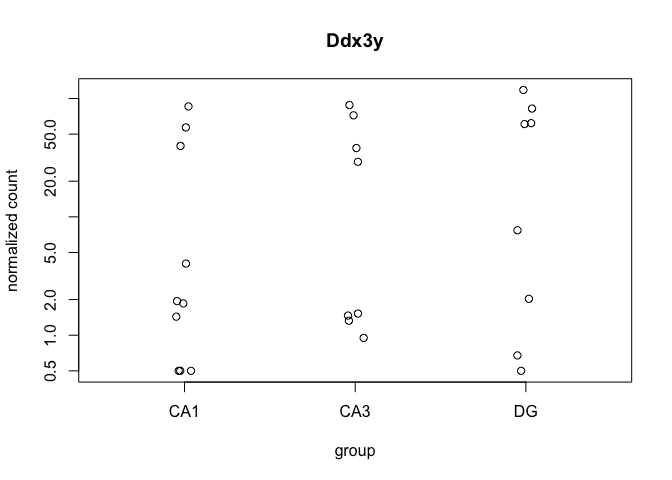
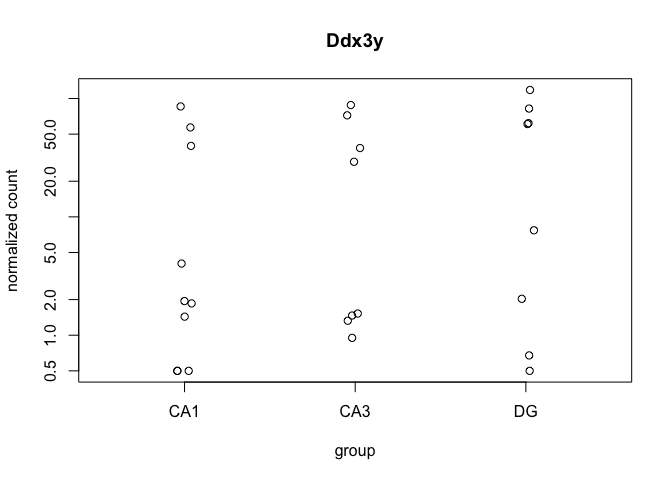
new pca

diff --git a/bin/DissociationTest.md b/bin/DissociationTest.md
@@ -3,54 +3,54 @@ This R Markdown document will walk through the analysis of hippocampal tissue pr
 #### Differential Gene Expression Plots
 
     ## class: DESeqDataSet 
-    ## dim: 16519 8 
+    ## dim: 17695 26 
     ## metadata(1): version
     ## assays(1): counts
-    ## rownames(16519): 0610007P14Rik 0610009B22Rik ... Zzef1 Zzz3
+    ## rownames(17695): 0610007P14Rik 0610009B22Rik ... Zzef1 Zzz3
     ## rowData names(0):
-    ## colnames(8): 100-DG-2 100-DG-3 ... 147C-DG-3 147D-DG-1
+    ## colnames(26): 100-CA1-1 100-CA1-2 ... 147D-CA3-1 147D-DG-1
     ## colData names(11): RNAseqID Method ... Punch.Collector jobnumber
 
     ## class: DESeqDataSet 
-    ## dim: 16519 8 
+    ## dim: 17695 26 
     ## metadata(1): version
-    ## assays(3): counts mu cooks
-    ## rownames(16519): 0610007P14Rik 0610009B22Rik ... Zzef1 Zzz3
-    ## rowData names(37): baseMean baseVar ... deviance maxCooks
-    ## colnames(8): 100-DG-2 100-DG-3 ... 147C-DG-3 147D-DG-1
-    ## colData names(12): RNAseqID Method ... jobnumber sizeFactor
+    ## assays(5): counts mu cooks replaceCounts replaceCooks
+    ## rownames(17695): 0610007P14Rik 0610009B22Rik ... Zzef1 Zzz3
+    ## rowData names(38): baseMean baseVar ... maxCooks replace
+    ## colnames(26): 100-CA1-1 100-CA1-2 ... 147D-CA3-1 147D-DG-1
+    ## colData names(13): RNAseqID Method ... sizeFactor replaceable
 
     ## 
-    ## out of 16519 with nonzero total read count
+    ## out of 17690 with nonzero total read count
     ## adjusted p-value < 0.1
-    ## LFC > 0 (up)     : 14, 0.085% 
-    ## LFC < 0 (down)   : 92, 0.56% 
-    ## outliers [1]     : 0, 0% 
+    ## LFC > 0 (up)     : 25, 0.14% 
+    ## LFC < 0 (down)   : 143, 0.81% 
+    ## outliers [1]     : 327, 1.8% 
     ## low counts [2]   : 0, 0% 
     ## (mean count < 0)
     ## [1] see 'cooksCutoff' argument of ?results
     ## [2] see 'independentFiltering' argument of ?results
 
     ## 
-    ## out of 16519 with nonzero total read count
+    ## out of 17690 with nonzero total read count
     ## adjusted p-value < 0.05
-    ## LFC > 0 (up)     : 13, 0.079% 
-    ## LFC < 0 (down)   : 88, 0.53% 
-    ## outliers [1]     : 0, 0% 
-    ## low counts [2]   : 8007, 48% 
-    ## (mean count < 15)
+    ## LFC > 0 (up)     : 16, 0.09% 
+    ## LFC < 0 (down)   : 120, 0.68% 
+    ## outliers [1]     : 327, 1.8% 
+    ## low counts [2]   : 6588, 37% 
+    ## (mean count < 7)
     ## [1] see 'cooksCutoff' argument of ?results
     ## [2] see 'independentFiltering' argument of ?results
 
-![](../figures/DG_hdccy/DifferentialGeneExpressionAnalysis-1.png)
+![](../figures/allregions_allgroups/DifferentialGeneExpressionAnalysis-1.png)
 
     ## NULL
 
-![](../figures/DG_hdccy/DifferentialGeneExpressionAnalysis-2.png)![](../figures/DG_hdccy/DifferentialGeneExpressionAnalysis-3.png)
+![](../figures/allregions_allgroups/DifferentialGeneExpressionAnalysis-2.png)![](../figures/allregions_allgroups/DifferentialGeneExpressionAnalysis-3.png)
 
-    ## [1] 3
+    ## [1] 32
 
-    ## [1] 20
+    ## [1] 7
 
 resPunchCA1DG \<- results(dds, contrast = c("Punch", "CA1", "DG"), independentFiltering = F) \#sum(resPunchCA1DG\(padj < 0.1, na.rm = TRUE) # 4170 #1127 valsPunchCA1DG <- cbind(resPunchCA1DG\)pvalue, resPunchCA1DG$padj) colnames(valsPunchCA1DG)=c("pval.CA1DG", "padj.CA1DG")
 
@@ -88,7 +88,7 @@ candidates \<- list("CA3 v. DG" = PunchCA3DG, "Homogenized v. Dissociated" = Met
 \`\`\`
 ======
 
-![](../figures/DG_hdccy/Heatmap100DEgenes-1.png) DEGes \<- as.data.frame(rldpvals) \# convert matrix to dataframe DEGes\(rownames <- rownames(DEGes) # add the rownames to the dataframe DEGes\)padjmin \<- with(DEGes, pmin(padj.MethodHomogDiss, padj.MethodYokedTrained)) \# put the min pvalue in a new column DEGes \<- DEGes %\>% filter(padj.MethodHomogDiss \< 0.05) rownames(DEGes) \<- DEGes$rownames drop.cols \<- c("padj.MethodHomogDiss", "pval.MethodHomogDiss","padj.MethodYokedTrained", "pval.MethodYokedTrained", "rownames", "padjmin") DEGes \<- DEGes %\>% select(-one\_of(drop.cols)) DEGes \<- as.matrix(DEGes) DEGes \<- DEGes - rowMeans(DEGes)
+![](../figures/allregions_allgroups/Heatmap100DEgenes-1.png) DEGes \<- as.data.frame(rldpvals) \# convert matrix to dataframe DEGes\(rownames <- rownames(DEGes) # add the rownames to the dataframe DEGes\)padjmin \<- with(DEGes, pmin(padj.MethodHomogDiss, padj.MethodYokedTrained)) \# put the min pvalue in a new column DEGes \<- DEGes %\>% filter(padj.MethodHomogDiss \< 0.05) rownames(DEGes) \<- DEGes$rownames drop.cols \<- c("padj.MethodHomogDiss", "pval.MethodHomogDiss","padj.MethodYokedTrained", "pval.MethodYokedTrained", "rownames", "padjmin") DEGes \<- DEGes %\>% select(-one\_of(drop.cols)) DEGes \<- as.matrix(DEGes) DEGes \<- DEGes - rowMeans(DEGes)
 
 pheatmap(DEGes, show\_colnames=F, show\_rownames = TRUE, annotation\_col=df, annotation\_colors = ann\_colors, fontsize = 12, fontsize\_row = 10, \#cellwidth=10, cellheight=10, width = 10, border\_color = "grey60" , color = matlabcolors, main = "Homogenized vs Dissociated padj \< 0.05" )
 
@@ -96,26 +96,62 @@ DEGes \<- as.data.frame(rldpvals) \# convert matrix to dataframe DEGes\(rownames
 
 pheatmap(DEGes, show\_colnames=F, show\_rownames = TRUE, annotation\_col=df, annotation\_colors = ann\_colors, fontsize = 12, fontsize\_row = 10, \#cellwidth=10, cellheight=10, width = 10, border\_color = "grey60" , color = matlabcolors, main = "Any padj \< 0.05" )
 
-    ##                  PC1        PC2            group      Method Punch
-    ## 100-DG-2   -3.613891  -3.584360 Homogenized : DG Homogenized    DG
-    ## 100-DG-3   14.340551  -5.770681 Homogenized : DG Homogenized    DG
-    ## 101-DG-3  -56.897286 -15.418869 Dissociated : DG Dissociated    DG
-    ## 101-DG-4    6.593125 -14.221116 Dissociated : DG Dissociated    DG
-    ## 146C-DG-4  14.487462  -1.726934     Trained : DG     Trained    DG
-    ## 146D-DG-3 -14.531047  44.430721       Yoked : DG       Yoked    DG
-    ## 147C-DG-3  15.923733  -5.763420     Trained : DG     Trained    DG
-    ## 147D-DG-1  23.697353   2.054660       Yoked : DG       Yoked    DG
-    ##                name
-    ## 100-DG-2   100-DG-2
-    ## 100-DG-3   100-DG-3
-    ## 101-DG-3   101-DG-3
-    ## 101-DG-4   101-DG-4
-    ## 146C-DG-4 146C-DG-4
-    ## 146D-DG-3 146D-DG-3
-    ## 147C-DG-3 147C-DG-3
-    ## 147D-DG-1 147D-DG-1
+    ##                   PC1        PC2             group      Method Punch
+    ## 100-CA1-1   21.844526 -12.956295 Homogenized : CA1 Homogenized   CA1
+    ## 100-CA1-2   21.750539 -18.816274 Homogenized : CA1 Homogenized   CA1
+    ## 100-CA1-3   19.586344 -15.902778 Homogenized : CA1 Homogenized   CA1
+    ## 100-CA3-1   16.319474  -9.215784 Homogenized : CA3 Homogenized   CA3
+    ## 100-CA3-4   17.557805  -8.314872 Homogenized : CA3 Homogenized   CA3
+    ## 100-DG-2    -8.590330  -2.000619  Homogenized : DG Homogenized    DG
+    ## 100-DG-3   -37.286963 -17.483685  Homogenized : DG Homogenized    DG
+    ## 101-CA1-1   21.107411   3.057414 Dissociated : CA1 Dissociated   CA1
+    ## 101-CA1-2   11.525709   8.553547 Dissociated : CA1 Dissociated   CA1
+    ## 101-CA1-3    7.427149  11.091593 Dissociated : CA1 Dissociated   CA1
+    ## 101-CA3-1   18.480723  -9.032546 Dissociated : CA3 Dissociated   CA3
+    ## 101-CA3-4   10.678874   3.242538 Dissociated : CA3 Dissociated   CA3
+    ## 101-DG-3   -11.588005  40.257655  Dissociated : DG Dissociated    DG
+    ## 101-DG-4   -40.511925  -2.210746  Dissociated : DG Dissociated    DG
+    ## 146C-CA1-4  16.549671  -5.425457     Trained : CA1     Trained   CA1
+    ## 146C-CA3-4   5.814773  50.753192     Trained : CA3     Trained   CA3
+    ## 146C-DG-4  -39.093235  -4.707806      Trained : DG     Trained    DG
+    ## 146D-CA1-3  10.186217   4.951797       Yoked : CA1       Yoked   CA1
+    ## 146D-CA3-3  10.891473  -1.448810       Yoked : CA3       Yoked   CA3
+    ## 146D-DG-3  -28.433705  22.832486        Yoked : DG       Yoked    DG
+    ## 147C-CA1-3  19.241844 -13.299751     Trained : CA1     Trained   CA1
+    ## 147C-CA3-3  13.445384  -1.827744     Trained : CA3     Trained   CA3
+    ## 147C-DG-3  -37.389087 -16.480214      Trained : DG     Trained    DG
+    ## 147D-CA1-1  -7.257385  22.879376       Yoked : CA1       Yoked   CA1
+    ## 147D-CA3-1  11.967457  -5.515119       Yoked : CA3       Yoked   CA3
+    ## 147D-DG-1  -44.224736 -22.981098        Yoked : DG       Yoked    DG
+    ##                  name
+    ## 100-CA1-1   100-CA1-1
+    ## 100-CA1-2   100-CA1-2
+    ## 100-CA1-3   100-CA1-3
+    ## 100-CA3-1   100-CA3-1
+    ## 100-CA3-4   100-CA3-4
+    ## 100-DG-2     100-DG-2
+    ## 100-DG-3     100-DG-3
+    ## 101-CA1-1   101-CA1-1
+    ## 101-CA1-2   101-CA1-2
+    ## 101-CA1-3   101-CA1-3
+    ## 101-CA3-1   101-CA3-1
+    ## 101-CA3-4   101-CA3-4
+    ## 101-DG-3     101-DG-3
+    ## 101-DG-4     101-DG-4
+    ## 146C-CA1-4 146C-CA1-4
+    ## 146C-CA3-4 146C-CA3-4
+    ## 146C-DG-4   146C-DG-4
+    ## 146D-CA1-3 146D-CA1-3
+    ## 146D-CA3-3 146D-CA3-3
+    ## 146D-DG-3   146D-DG-3
+    ## 147C-CA1-3 147C-CA1-3
+    ## 147C-CA3-3 147C-CA3-3
+    ## 147C-DG-3   147C-DG-3
+    ## 147D-CA1-1 147D-CA1-1
+    ## 147D-CA3-1 147D-CA3-1
+    ## 147D-DG-1   147D-DG-1
 
-![](../figures/DG_hdccy/PCA-1.png)
+![](../figures/allregions_allgroups/PCA-1.png)
 
 ``` r
 library(edgeR)
@@ -141,25 +177,37 @@ counts <- countData
 dim( counts )
 ```
 
-    ## [1] 22485     8
+    ## [1] 22485    26
 
 ``` r
 colSums( counts )
 ```
 
-    ##  100-DG-2  100-DG-3  101-DG-3  101-DG-4 146C-DG-4 146D-DG-3 147C-DG-3 
-    ##   1285654   6086605     65887    598775    492145     90417   4350647 
-    ## 147D-DG-1 
-    ##  11700703
+    ##  100-CA1-1  100-CA1-2  100-CA1-3  100-CA3-1  100-CA3-4   100-DG-2 
+    ##    2311086    6646655    2277596    1974845    2352153    1285654 
+    ##   100-DG-3  101-CA1-1  101-CA1-2  101-CA1-3  101-CA3-1  101-CA3-4 
+    ##    6086605    4782767     135065     300812    2498914    1193153 
+    ##   101-DG-3   101-DG-4 146C-CA1-4 146C-CA3-4  146C-DG-4 146D-CA1-3 
+    ##      65887     598775    1360004     257822     492145     391369 
+    ## 146D-CA3-3  146D-DG-3 147C-CA1-3 147C-CA3-3  147C-DG-3 147D-CA1-1 
+    ##    2994536      90417    3072308    5754581    4350647        213 
+    ## 147D-CA3-1  147D-DG-1 
+    ##    4624995   11700703
 
 ``` r
 colSums( counts ) / 1e06  # in millions of reads
 ```
 
-    ##  100-DG-2  100-DG-3  101-DG-3  101-DG-4 146C-DG-4 146D-DG-3 147C-DG-3 
-    ##  1.285654  6.086605  0.065887  0.598775  0.492145  0.090417  4.350647 
-    ## 147D-DG-1 
-    ## 11.700703
+    ##  100-CA1-1  100-CA1-2  100-CA1-3  100-CA3-1  100-CA3-4   100-DG-2 
+    ##   2.311086   6.646655   2.277596   1.974845   2.352153   1.285654 
+    ##   100-DG-3  101-CA1-1  101-CA1-2  101-CA1-3  101-CA3-1  101-CA3-4 
+    ##   6.086605   4.782767   0.135065   0.300812   2.498914   1.193153 
+    ##   101-DG-3   101-DG-4 146C-CA1-4 146C-CA3-4  146C-DG-4 146D-CA1-3 
+    ##   0.065887   0.598775   1.360004   0.257822   0.492145   0.391369 
+    ## 146D-CA3-3  146D-DG-3 147C-CA1-3 147C-CA3-3  147C-DG-3 147D-CA1-1 
+    ##   2.994536   0.090417   3.072308   5.754581   4.350647   0.000213 
+    ## 147D-CA3-1  147D-DG-1 
+    ##   4.624995  11.700703
 
 ``` r
 table( rowSums( counts ) )[ 1:30 ] # Number of genes with low counts
@@ -167,6 +215,6 @@ table( rowSums( counts ) )[ 1:30 ] # Number of genes with low counts
 
     ## 
     ##    0    1    2    3    4    5    6    7    8    9   10   11   12   13   14 
-    ## 5632  334  287  249  191  179  137  139  123  109  108  101   78   97   93 
+    ## 4461  329  283  233  179  152  150  117  117   97   99   80   75   77   67 
     ##   15   16   17   18   19   20   21   22   23   24   25   26   27   28   29 
-    ##   74   83   58   70   63   66   61   62   69   61   55   42   40   45   60
+    ##   76   65   62   74   63   49   64   40   52   50   51   53   52   31   51
